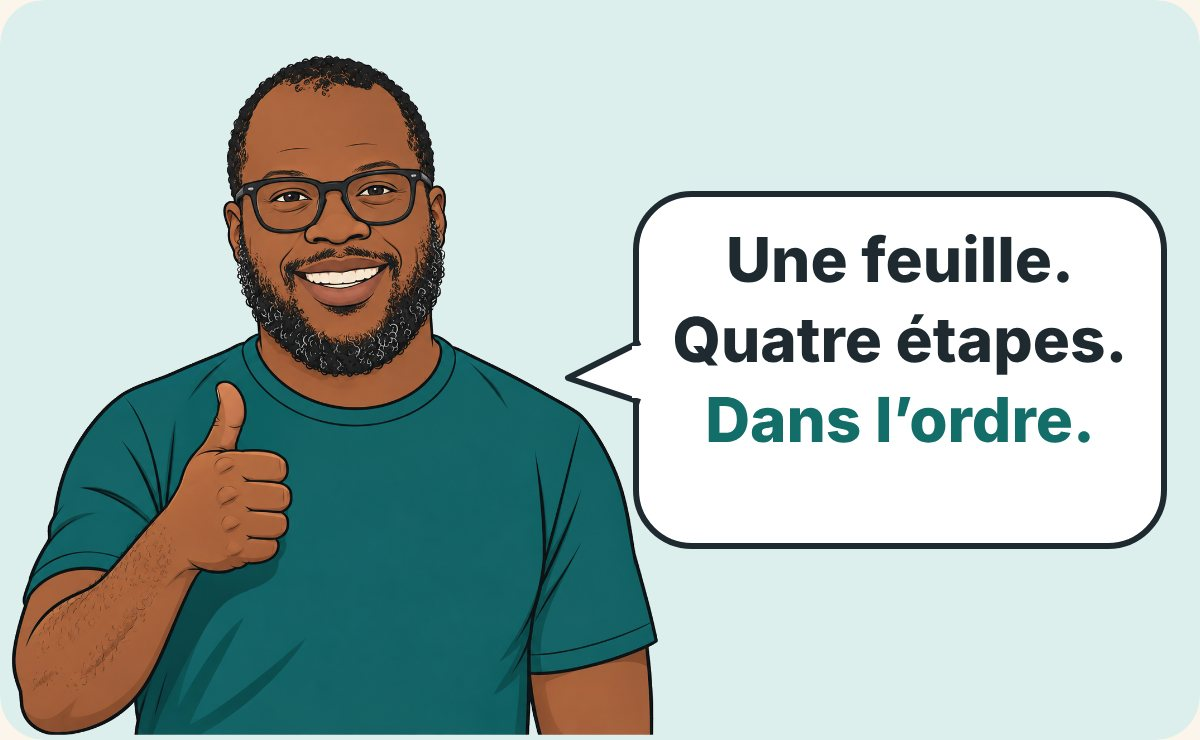
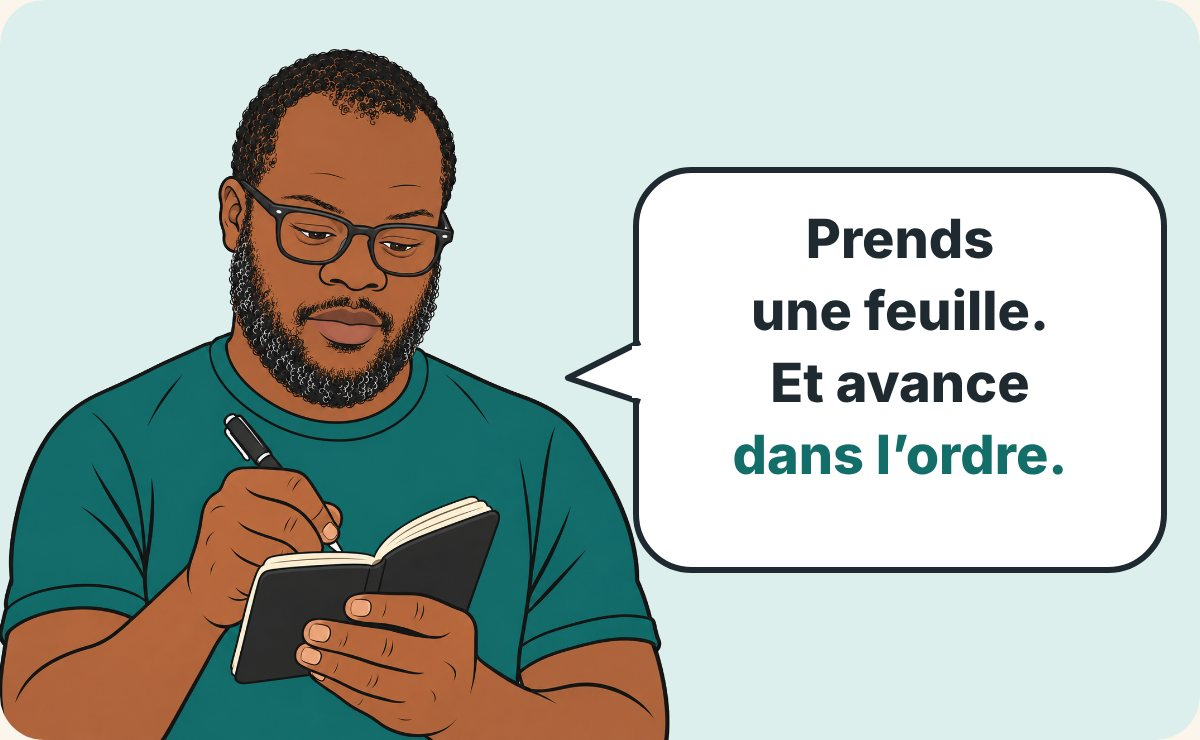
#147 : nouvelles poses de Will, redites retirées, libellés clarifiés ; rotation des 4 emplacements
Claude-Session: https://claude.ai/code/session_01QEEMWNZxp929Pj8nsugEVU

Changed region(s): [[0.0, 0.0622, 0.9867, 1.0], [0.5242, 0.2176, 0.9867, 0.6527]]

diff --git a/outils/build147.py b/outils/build147.py
@@ -84,10 +84,9 @@ A(p(f"Si ta dernière ligne affiche « zéro », {b('cette édition est pour toi
 A(p("Parce que tu n'as pas un problème de motivation. Tu cherches. Tu cherches même beaucoup. Ton problème est ailleurs :"))
 A(png("04-un-truc","Chaque bien a un truc : bien placé mais cuisine à refaire ; bon loyer mais 3e étage sans ascenseur ; coche presque tout, mais peut-être mieux le mois prochain."))
 A(png("05-will","Will : Tu vois le schéma ?",mb=24))
-A(p(f"Tu n'es pas en train de chercher {b('un')} bien. Tu es en train de chercher {b('le')} bien. Celui qui n'a aucun défaut."))
-A(png("06-parfait","Ma liste du bien idéal : vue dégagée, prix bas, loyer haut, zéro travaux, bien placé, calme, parking. Ce bien n'existe pas.",mb=18))
-A(p("Mais je vais te dire une chose que tu sais déjà, au fond.",align="center",mb=4))
-A(punch(f"Ce bien-là {hl('n’existe pas')}.",mb=34))
+A(p(f"Tu n'es pas en train de chercher {b('un')} bien. Tu es en train de chercher {b('le')} bien. Celui qui n'a aucun défaut. Mais je vais te dire une chose que tu sais déjà, au fond :"))
+A(png("06-parfait","Ta liste du bien idéal : vue dégagée, prix bas, loyer haut, zéro travaux, bien placé, calme, parking. Ce bien n'existe pas.",mb=18))
+A(gap(8))
 
 # ---------------- PARTIE 2 ----------------
 A(kicker("Partie 2")+h3("Ce qu'un prix Nobel a compris"))
@@ -96,7 +95,7 @@ A(p(f"Son constat : on n'a jamais toutes les informations, ni tout le temps du m
 A(png("07-seuil","La méthode du seuil, Herbert Simon, prix Nobel d'économie 1978 : on retient la première option qui dépasse le seuil. Satisficing = satisfaire + suffire.",mb=20))
 A(p(f"Il a appelé ça le {i('satisficing')}. Bien plus tard, le psychologue {b('Barry Schwartz')} et son équipe ont comparé deux profils :"))
 A(png("08-max-sat","Maximisateurs : moins heureux, moins satisfaits de leur vie, plus de regrets. Satisficeurs : critères fixés, décident, vivent mieux leurs choix. Barry Schwartz et son équipe, 2002.",mb=20))
-A(p("Dans une de leurs études, les maximisateurs étaient même moins satisfaits de leurs propres achats. Ils cherchaient plus. Mais ils vivaient moins bien leurs choix."))
+A(p(f"Et dans une de leurs études, les maximisateurs étaient même {b('moins satisfaits de leurs propres achats')}."))
 A(card(p(i("Et concrètement, pour ton projet immobilier, ça veut dire quoi ?"),size=16,color=PEACH,mb=10)+
        p("Ta recherche du bien parfait ne te protège pas. Elle te donne l’impression d’être prudent.",color="#FFFFFF",mb=8)+
        p("Mais en vrai, elle te garde sur le banc de touche.",size=21,color="#FFFFFF",w="bold",mb=0),bg=TEAL,pad=24,mb=34))
@@ -105,21 +104,21 @@ A(card(p(i("Et concrètement, pour ton projet immobilier, ça veut dire quoi ?")
 A(kicker("Partie 3")+h3("Chercher le bon bien, pas le bien parfait"))
 A(p(f"Un investissement immobilier, ce n'est pas un concours de beauté. Ce n'est pas « le plus bel appartement de l'île » qui gagne. C'est celui qui {b('fait le travail')} que tu lui demandes."))
 A(p("Et quel travail tu lui demandes ? Ça, c'est toi qui le décides. Avant même de chercher. Tant que tu n'as pas écrit tes critères, chaque annonce devient une comparaison avec la précédente. Et avec la suivante. Et ça ne s'arrête jamais."))
-A(p("Alors que si tu as tes critères sous les yeux, la question change :",mb=10))
-A(p("<s>« Est-ce que c’est le meilleur ? »</s>",size=19,color=MUTED,mb=12))
-A(card(p("« Est-ce que ça passe mon seuil ? »",size=21,color="#FFFFFF",w="bold",mb=6)+p("Une question à laquelle on peut répondre. Par oui ou par non.",size=16,color=PEACH,mb=0),bg=TEAL,pad=22))
+A(p("Alors que si tu as tes critères sous les yeux, la question change :",mb=12))
+A(card(kicker("Avant : la question sans fin",MUTED)+p("« Est-ce que c’est le meilleur ? »",size=19,color=MUTED,w="bold",mb=0),bg=GREY_L,pad=18,mb=10))
+A(card(kicker("Maintenant : la bonne question",PEACH)+p("« Est-ce que ça passe mon seuil ? »",size=21,color="#FFFFFF",w="bold",mb=6)+p("Une question à laquelle on peut répondre. Par oui ou par non.",size=16,color=PEACH,mb=0),bg=TEAL,pad=22))
 A(p(f"Attention, je ne te dis pas de baisser tes exigences. Je te dis de les {b('écrire')}."))
 A(f'<table role="presentation" width="100%" cellpadding="0" cellspacing="0" border="0" style="border-collapse:collapse;margin:0 0 34px 0;"><tr><td style="border-left:6px solid {ORANGE};padding:4px 0 4px 18px;">'
   f'<p style="margin:0;font-family:Georgia,serif;font-size:21px;line-height:1.5;color:{INK};font-style:italic;">Un critère écrit, c\'est une règle. Un critère flou, c\'est une excuse pour ne jamais décider.</p></td></tr></table>')
 
 # ---------------- PARTIE 4 : MÉTHODE ----------------
 A(kicker("Partie 4")+h3("Ta méthode en 4 étapes"))
-A(png("10-will-pouce","Will : Une feuille. Quatre étapes. Dans l'ordre.",mb=16))
+A(png("10-will-pouce","Will : Prends une feuille. Et avance dans l'ordre.",mb=16))
 A(png("11-marches","Les 4 étapes : 1. Tes 3 critères, 2. Deux colonnes, 3. Règle de décision, 4. Stop au bien rêvé.",mb=30))
 
 A(step("1","Écris tes 3 non-négociables"))
 A(p(f"Avant de rouvrir la moindre annonce, écris les {b('trois')} critères sans lesquels tu ne signes pas. Par exemple :"))
-A(png("12-criteres","Mes 3 non-négociables : budget maximum frais compris ; rentabilité minimale après charges ; la zone, et pourquoi elle. Tout le reste est du bonus : la vue, le carrelage, l'étage.",mb=18))
+A(png("12-criteres","Tes 3 non-négociables : budget maximum frais compris ; rentabilité minimale après charges ; la zone, et pourquoi elle. Tout le reste est du bonus : la vue, le carrelage, l'étage.",mb=18))
 A(p(f"Trois. Pas douze. Le reste est agréable si tu l'as, {b('pas disqualifiant')} si tu ne l'as pas.",mb=32))
 
 A(step("2","Trie les défauts en deux colonnes"))

diff --git a/outils/illus147.py b/outils/illus147.py
@@ -46,10 +46,10 @@ def will_panel(pose, lines, h=370, accent_last=True):
         f'<rect x="316" y="{by+bh/2-12}" width="8" height="26" fill="{WHITE}"/>' + t, TEAL_L)
 
 out={}
-out["00-will-salut"]=will_panel("salut",["Salut","la famille ! 🔥"],h=330)
-out["05-will"]=will_panel("menton",["Tu vois","le schéma ?"],h=340)
-out["10-will-pouce"]=will_panel("pouce",["Une feuille.","Quatre étapes.","Dans l’ordre."])
-out["17-will-clin"]=will_panel("clin",["C’était Will 🔥","Ciao !"],h=330)
+out["00-will-salut"]=will_panel("celebre",["Salut","la famille ! 🔥"],h=330)
+out["05-will"]=will_panel("pointe",["Tu vois","le schéma ?"],h=340)
+out["10-will-pouce"]=will_panel("carnet",["Prends","une feuille.","Et avance","dans l’ordre."])
+out["17-will-clin"]=will_panel("bras-croises",["C’était Will 🔥","Ciao !"],h=330)
 
 # 01. COUVERTURE ----------------------------------------------------------------
 ban=base64.b64encode(open(sys.argv[2],"rb").read()).decode()
@@ -152,7 +152,7 @@ g+=txt(300,398,"Barry Schwartz et son équipe, 2002",15,GREY,700)
 out["08-max-sat"]=svg(600,420,g,WHITE)
 
 # 11. LES 4 MARCHES ---------------------------------------------------------------------------
-g=txt(300,46,"TA MÉTHODE EN 4 ÉTAPES",17,TEAL,800,ls=3)
+g=""
 labels=[("3 critères",""),("Deux","colonnes"),("Règle de","décision"),("Stop au","bien rêvé")]
 base=372
 for k,(l1,l2) in enumerate(labels):
@@ -161,23 +161,23 @@ for k,(l1,l2) in enumerate(labels):
     g+=f'<circle cx="{x+64}" cy="{y}" r="24" fill="{WHITE}" stroke="{fill}" stroke-width="5"/>'+txt(x+64,y+9,str(k+1),24,INK,800)
     g+= (txt(x+64,y+58,l1,20,WHITE,800)+txt(x+64,y+84,l2,20,WHITE,800)) if l2 else txt(x+64,y+64,l1,20,WHITE,800)
 g+=f'<line x1="530" y1="122" x2="530" y2="62" stroke="{INK}" stroke-width="5" stroke-linecap="round"/><path d="M532 62 L574 76 L532 90 Z" fill="{MANGO}"/>'
-out["11-marches"]=svg(600,400,g,TEAL_L)
+out["11-marches"]=svg(600,400,f'<g transform="translate(0 -24)">{g}</g>',TEAL_L)
 
 # 12. LES 3 NON-NÉGOCIABLES ------------------------------------------------------------------
 def coin(cx,cy): return f'<circle cx="{cx}" cy="{cy}" r="26" fill="{TEAL}"/>'+txt(cx,cy+10,"€",28,WHITE,800)
 def chart(cx,cy): return "".join(f'<rect x="{cx-24+k*18}" y="{cy+20-hh}" width="12" height="{hh}" rx="3" fill="{TEAL}"/>' for k,hh in enumerate([16,28,42]))
 def pin(cx,cy): return f'<path d="M{cx} {cy+28} C{cx-26} {cy} {cx-22} {cy-26} {cx} {cy-26} C{cx+22} {cy-26} {cx+26} {cy} {cx} {cy+28} Z" fill="{TEAL}"/><circle cx="{cx}" cy="{cy-6}" r="9" fill="{WHITE}"/>'
-cards=[(coin,"Budget max","frais compris"),(chart,"Rentabilité","mini, après charges"),(pin,"La zone","et pourquoi elle")]
+cards=[(coin,"Budget","maximum","frais compris"),(chart,"Rentabilité","minimale","après charges"),(pin,"Zone","choisie","et pourquoi elle")]
 g=txt(300,46,"TES 3 NON-NÉGOCIABLES",17,TEAL,800,ls=2)
-for k,(ic,a,b) in enumerate(cards):
+for k,(ic,a,a2,b) in enumerate(cards):
     x=24+k*192
-    g+=(f'<rect x="{x}" y="70" width="168" height="190" rx="16" fill="{WHITE}" stroke="{TEAL}" stroke-width="3"/>'
-        + ic(x+84,128) + txt(x+84,198,a,21,INK,800) + txt(x+84,226,b,16,GREY,700))
-g+=txt(300,300,"Tout le reste, c’est du bonus :",18,INK,700)
+    g+=(f'<rect x="{x}" y="70" width="168" height="206" rx="16" fill="{WHITE}" stroke="{TEAL}" stroke-width="3"/>'
+        + ic(x+84,124) + txt(x+84,188,a,21,INK,800) + txt(x+84,213,a2,21,INK,800) + txt(x+84,246,b,17,GREY,700))
+g+=txt(300,316,"Tout le reste, c’est du bonus :",18,INK,700)
 for k,c in enumerate(["la vue","le carrelage","l’étage"]):
     x=96+k*140
-    g+=f'<rect x="{x}" y="318" width="128" height="38" rx="19" fill="{GREY_L}"/>'+txt(x+64,343,c,17,GREY,700)
-out["12-criteres"]=svg(600,384,g,TEAL_L)
+    g+=f'<rect x="{x}" y="334" width="128" height="38" rx="19" fill="{GREY_L}"/>'+txt(x+64,359,c,17,GREY,700)
+out["12-criteres"]=svg(600,400,g,TEAL_L)
 
 # 13. DEUX COLONNES ---------------------------------------------------------------------------
 def col2(x0,title,sub,col,bg,items,mark):

diff --git a/outils/poses.py b/outils/poses.py
@@ -8,8 +8,15 @@ Règles :
 """
 import json, os, sys, datetime as dt
 HERE=os.path.dirname(os.path.abspath(__file__))
-BASE=["menton","pouce","pointe","surpris","bras-croises","telephone","carnet","celebre"]
-FIXES={"accueil":"salut","signature":"clin"}
+# Chaque emplacement a son groupe de poses compatibles avec la bulle ; on prend la première pose
+# du groupe qui n'a servi ni dans l'édition précédente ni ailleurs dans l'édition en cours.
+POOLS={
+ "accueil":  ["salut","celebre","pointe","telephone","bras-croises"],
+ "relance":  ["menton","pointe","surpris","bras-croises","telephone"],
+ "methode":  ["carnet","pouce","menton","pointe","celebre"],
+ "signature":["clin","bras-croises","pouce","celebre","salut"],
+}
+BASE=sorted({p for v in POOLS.values() for p in v})
 # Fenêtres d'utilisation des poses de saison (dates d'envoi incluses). Sources : calendrier scolaire Martinique 2026-2027, jours gras 2027.
 SAISONS=[
     ("noel",      "2026-12-12","2026-12-27","Noël (25 décembre ; vacances aux Antilles dès le 19 décembre)"),
@@ -28,11 +35,13 @@ def choisir(d):
     try: hist=json.load(open(hist_p,encoding="utf-8"))
     except Exception: hist=[]
     dernieres=set(hist[-1]["poses"]) if hist else set()
-    avant=set(hist[-2]["poses"]) if len(hist)>1 else set()
-    libres=[p for p in BASE if p not in dernieres] or BASE
-    libres.sort(key=lambda p:(p in avant, BASE.index(p)))
-    s,lab=saison(d)
-    return {"accueil":s or FIXES["accueil"],"relance":libres[0],"methode":libres[1],"signature":FIXES["signature"] if s else FIXES["signature"],"fete":lab}
+    s,lab=saison(d); pris=set(); out={}
+    for slot,pool in POOLS.items():
+        if slot=="accueil" and s: out[slot]=s; pris.add(s); continue
+        libres=[p for p in pool if p not in dernieres and p not in pris] or [p for p in pool if p not in pris]
+        out[slot]=libres[0]; pris.add(libres[0])
+    out["fete"]=lab
+    return out
 def enregistrer(d,edition,poses):
     hist_p=os.path.join(HERE,"avatar","historique.json")
     try: hist=json.load(open(hist_p,encoding="utf-8"))
